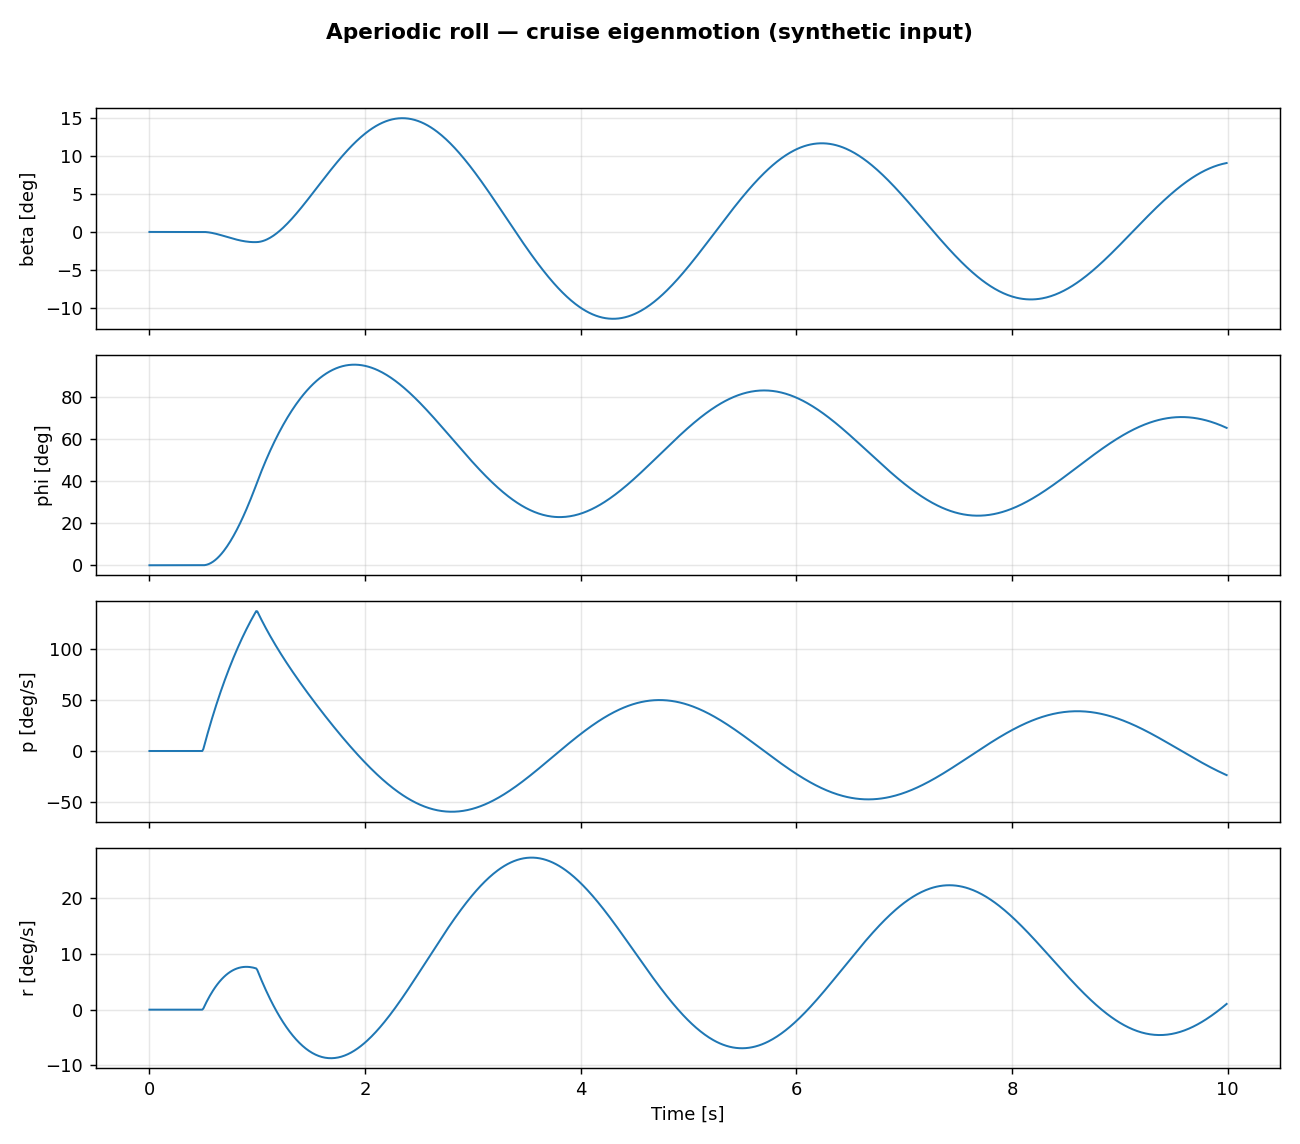
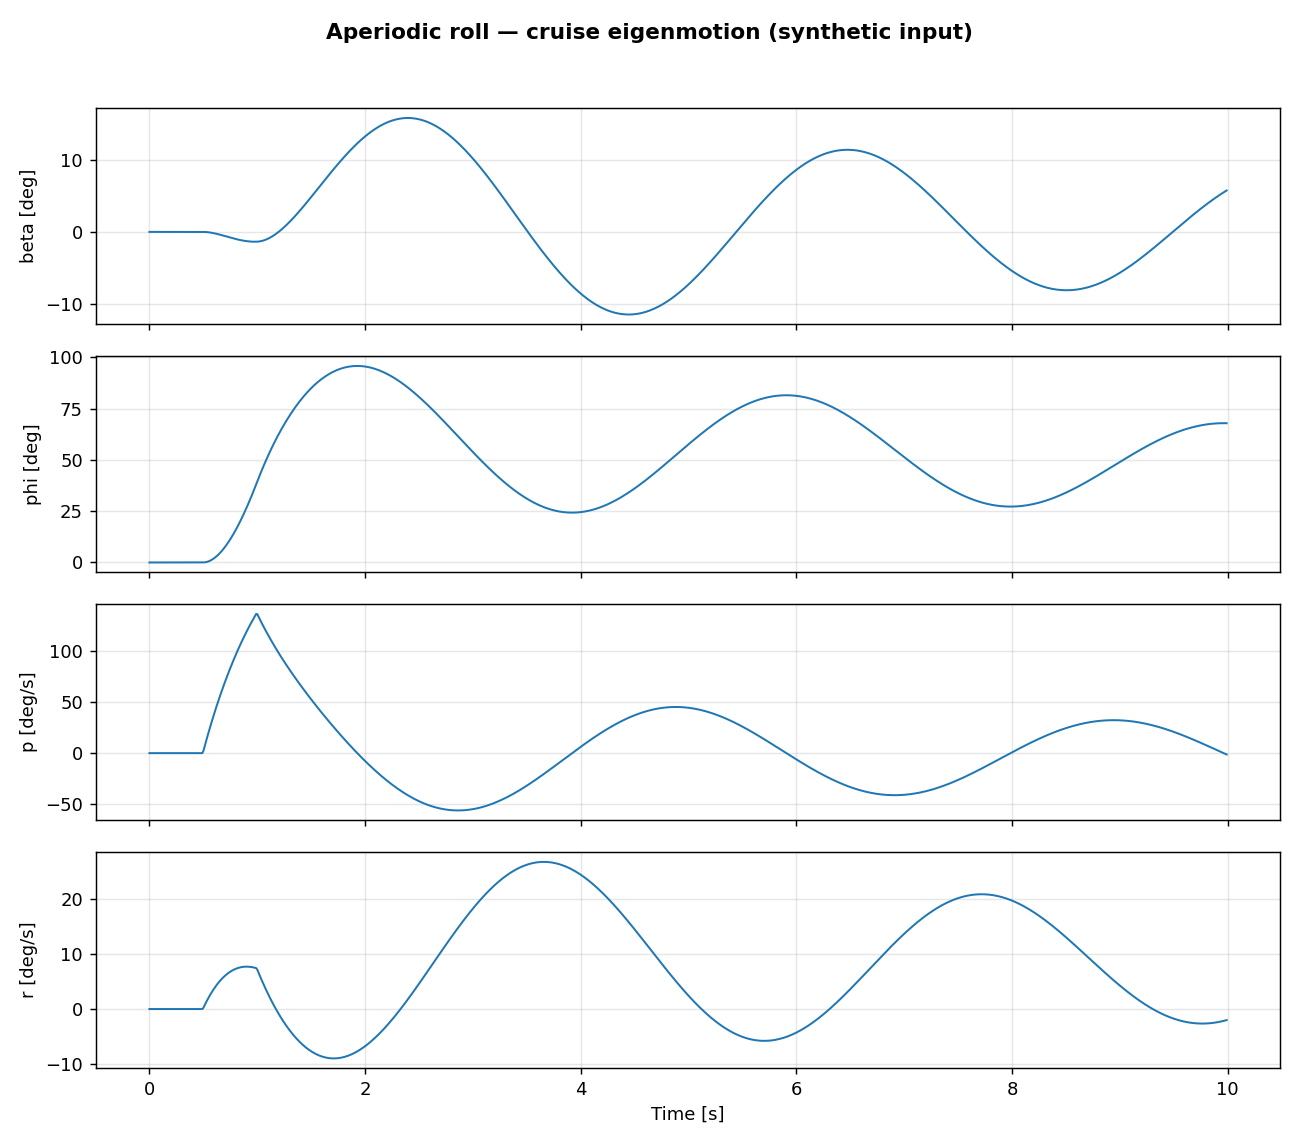
type shi

diff --git a/final_characteristics/vehicle_dynamics/vd_parameters.py b/final_characteristics/vehicle_dynamics/vd_parameters.py
@@ -95,8 +95,8 @@ class WingGeometry:
     te_angle_aw:          float = 18  # [deg.]
 
     # Wing vertical position relative to body centreline (+ is down)
-    z_w_fw:               float = +0.5   # [m]
-    z_w_aw:               float = -2.1   # [m]
+    z_w_fw:               float = +0.4   # [m]
+    z_w_aw:               float = -1.7   # [m]
 
     x_LEMAC_fw:           float = 1 # [m] - very rough estimate
 
@@ -109,7 +109,7 @@ class TailGeometry:
 
     n_fins:                     float = 2    # [-]
     x_vert_tail:                float = 6.4  # [m]
-    c_r_vert_tail:              float = 1.8  # [m]
+    c_r_vert_tail:              float = 1.6  # [m]
     c_t_vert_tail:              float = 1.3  # [m]
     taper_vert_tail:            float = c_t_vert_tail/c_r_vert_tail  # [-]
     b_vert_tail:                float = 1.6  # [m]
@@ -120,8 +120,8 @@ class TailGeometry:
 
     MAC_vert_tail:              float = (2/3)*c_r_vert_tail*((1 + taper_vert_tail + taper_vert_tail**2)/(1 + taper_vert_tail))  # [m]
     t_c_vert_tail:              float = 0.12  # [-]
-    te_angle_vert_tail:         float = 14  # [deg.]
-    z_vert_tail:                float = 0.65  # [m] vertical a.c. height (datum)
+    te_angle_vert_tail:         float = 20  # [deg.]
+    z_vert_tail:                float = 0.68  # [m] vertical a.c. height (datum)
 
 
 @dataclass
@@ -145,7 +145,7 @@ class WingletGeometry:
     LE_sweep_winglet:           float = np.arctan(WingGeometry.stagger/WingGeometry.gap)  # [rad]
 
     x_ac_winglet:               float = 4.125  # [m] longitudinal aerodynamic-centre location
-    z_ac_winglet:               float = 0.0  # [m] vertical aerodynamic-centre location
+    z_ac_winglet:               float = 0.68  # [m] vertical aerodynamic-centre location
 
     airfoil_winglet:            str   = "NASA LANGLEY LS(1)-0417"  # [-]
     t_c_winglet:                float = 0.12  # [-]
